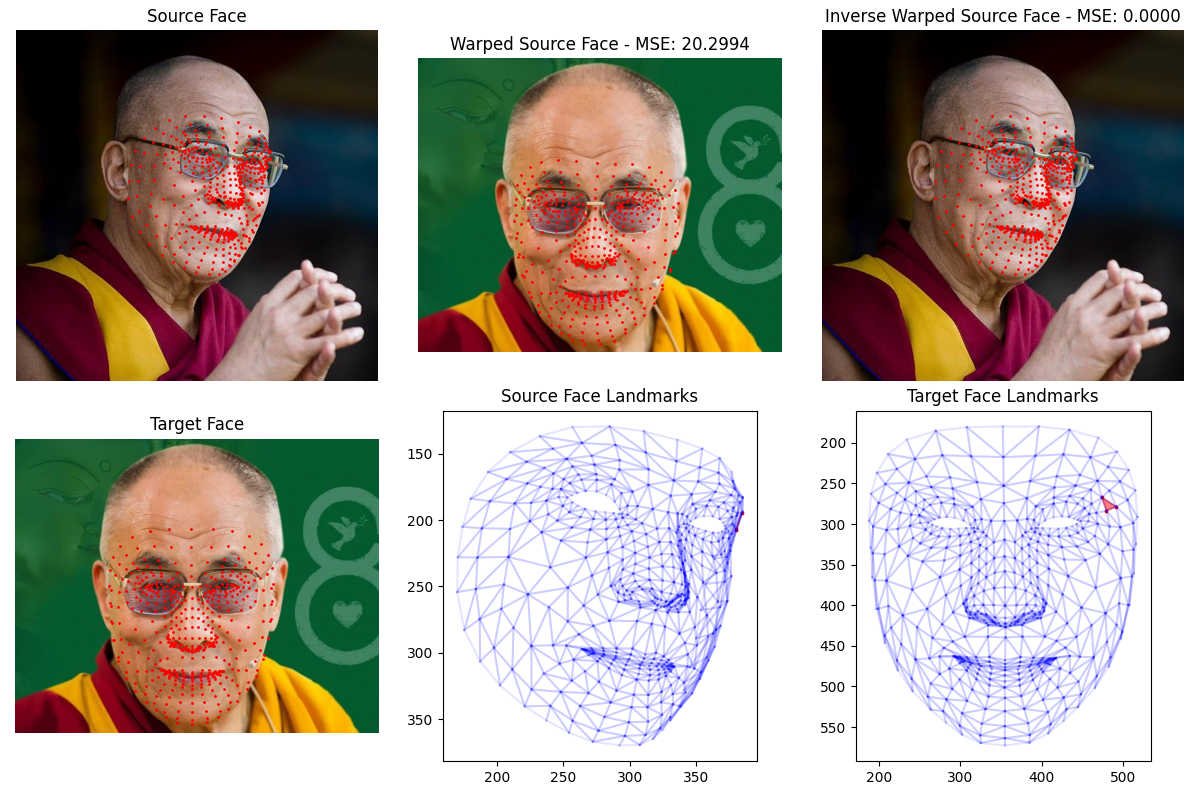
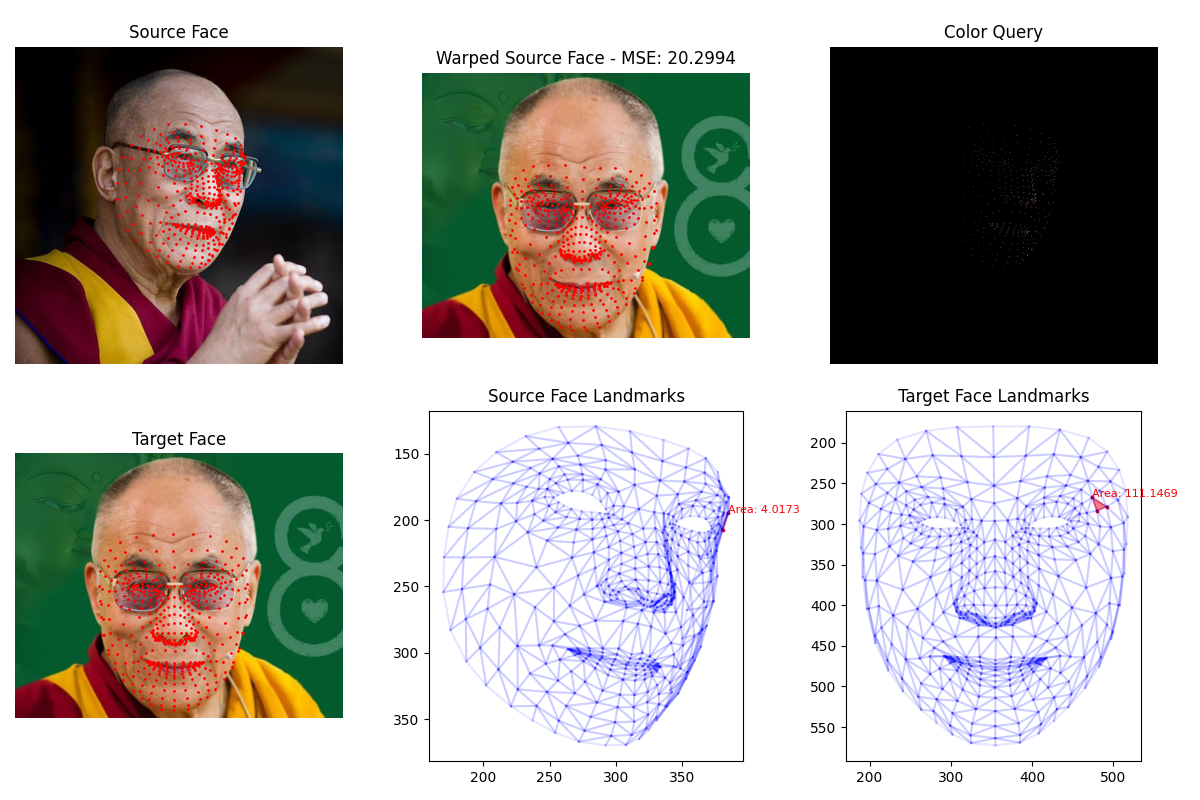
add color querying

diff --git a/libs/face_landmark.py b/libs/face_landmark.py
@@ -86,6 +86,21 @@ def find_areas(points, triangles):
         areas.append(area)
     return np.array(areas)
 
+def color_query(image, points):
+
+    colors = []
+    for point in points:
+        x, y = point[:2]
+        x = int(x)
+        y = int(y)
+        try:
+            colors.append(image[y, x])
+        except:
+            colors.append([0, 0, 0])
+     
+    colors = np.array(colors)    
+    return colors
+
 if __name__ == '__main__':
 
     verbose_dir  = "verbose"
@@ -122,9 +137,11 @@ if __name__ == '__main__':
     axes[0,1].axis("off")
 
     inverse_warped_lmks = inverse_homography_transform(warped_lmks, H)
-    axes[0,2].imshow(cv2.cvtColor(source_image, cv2.COLOR_BGR2RGB))
-    axes[0,2].scatter(inverse_warped_lmks[:, 0], inverse_warped_lmks[:, 1], c='r', s=1)
-    axes[0,2].set_title("Inverse Warped Source Face - MSE: {:.4F}".format(np.mean((inverse_warped_lmks - source_lmks) ** 2)))
+    queried_color = color_query(source_image, inverse_warped_lmks)
+    queried_image = np.zeros_like(source_image)
+    queried_image[inverse_warped_lmks[:, 1].astype(int), inverse_warped_lmks[:, 0].astype(int)] = queried_color
+    axes[0,2].imshow(cv2.cvtColor(queried_image, cv2.COLOR_BGR2RGB))
+    axes[0,2].set_title("Color Query")
     axes[0,2].axis("off")
 
     axes[1,0].imshow(cv2.cvtColor(target_image, cv2.COLOR_BGR2RGB))
@@ -137,6 +154,7 @@ if __name__ == '__main__':
         axes[1,1].plot(source_lmks[line, 0], source_lmks[line, 1], c='b', alpha=0.1)
     axes[1,1].scatter(source_lmks[triangles[demo_triangle_idx], 0], source_lmks[triangles[demo_triangle_idx], 1], c='r', s=3)
     axes[1,1].fill(source_lmks[triangles[demo_triangle_idx], 0], source_lmks[triangles[demo_triangle_idx], 1], c='r', alpha=0.5)
+    axes[1,1].text(source_lmks[triangles[demo_triangle_idx][0], 0], source_lmks[triangles[demo_triangle_idx][0], 1], "Area: {:.4f}".format(source_areas[demo_triangle_idx]), fontsize=8, color='r')
     axes[1,1].set_title("Source Face Landmarks")
     axes[1,1].set_aspect('equal')
     axes[1,1].invert_yaxis()
@@ -145,6 +163,7 @@ if __name__ == '__main__':
         axes[1,2].plot(target_lmks[line, 0], target_lmks[line, 1], c='b', alpha=0.1)
     axes[1,2].scatter(target_lmks[triangles[demo_triangle_idx], 0], target_lmks[triangles[demo_triangle_idx], 1], c='r', s=3)
     axes[1,2].fill(target_lmks[triangles[demo_triangle_idx], 0], target_lmks[triangles[demo_triangle_idx], 1], c='r', alpha=0.5)
+    axes[1,2].text(target_lmks[triangles[demo_triangle_idx][0], 0], target_lmks[triangles[demo_triangle_idx][0], 1], "Area: {:.4f}".format(target_areas[demo_triangle_idx]), fontsize=8, color='r')
     axes[1,2].set_title("Target Face Landmarks")
     axes[1,2].set_aspect('equal')
     axes[1,2].invert_yaxis()
